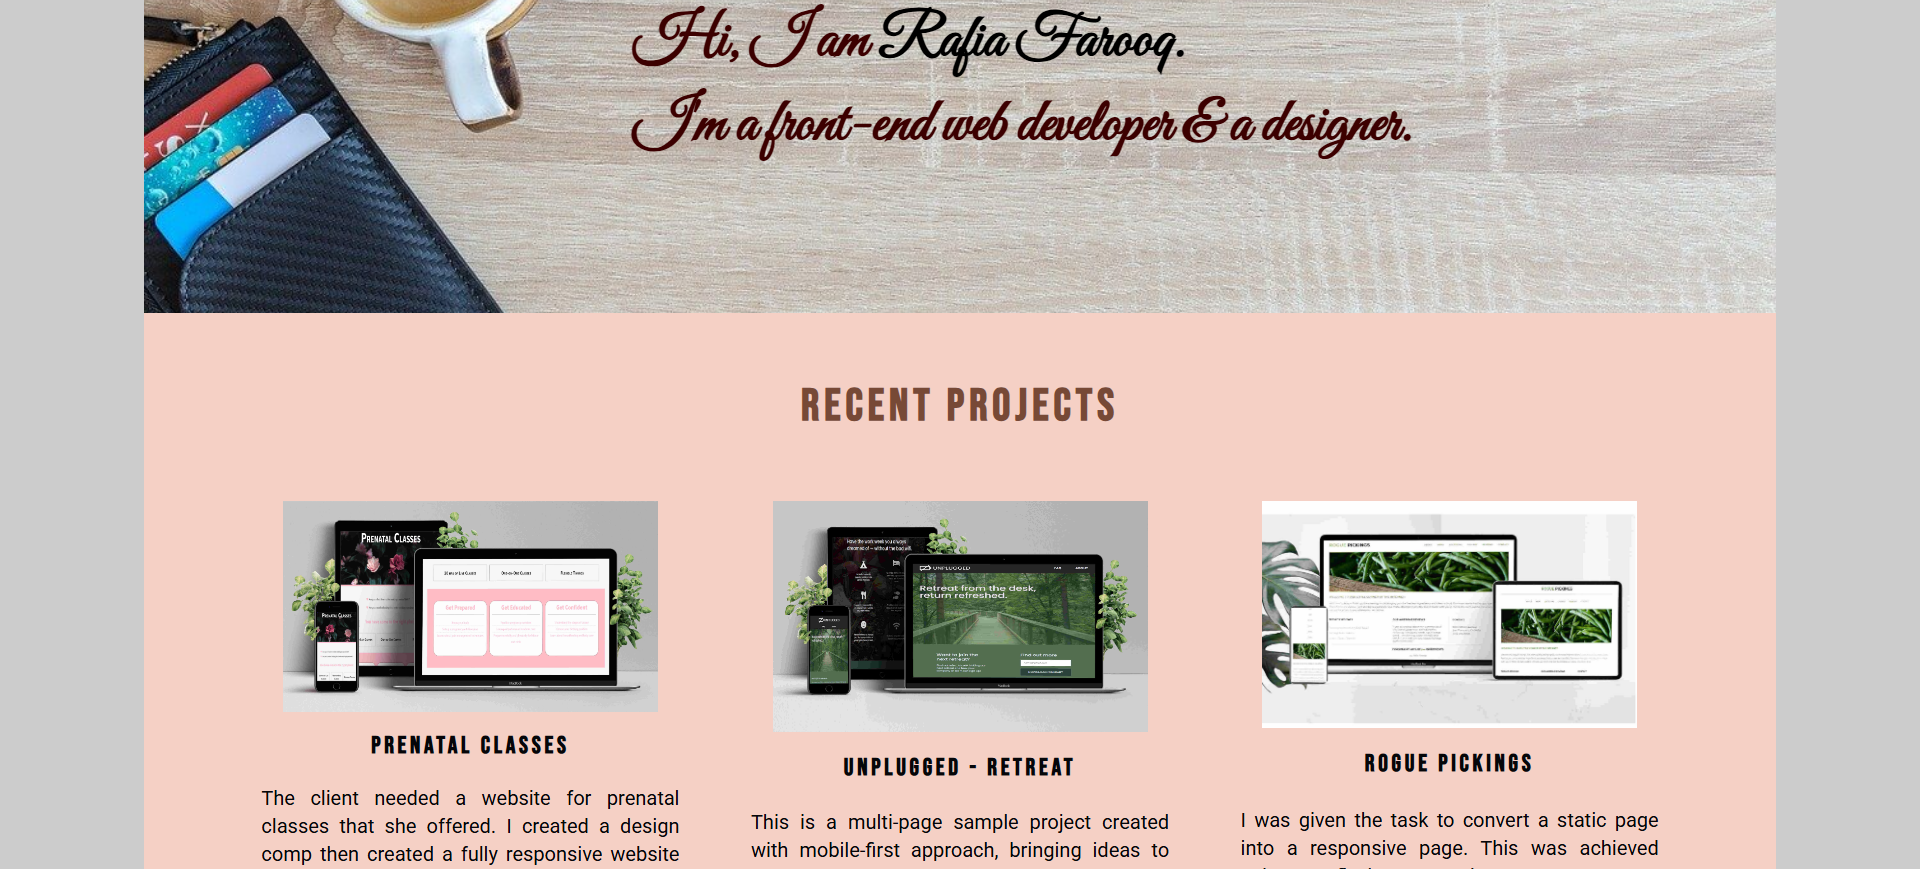
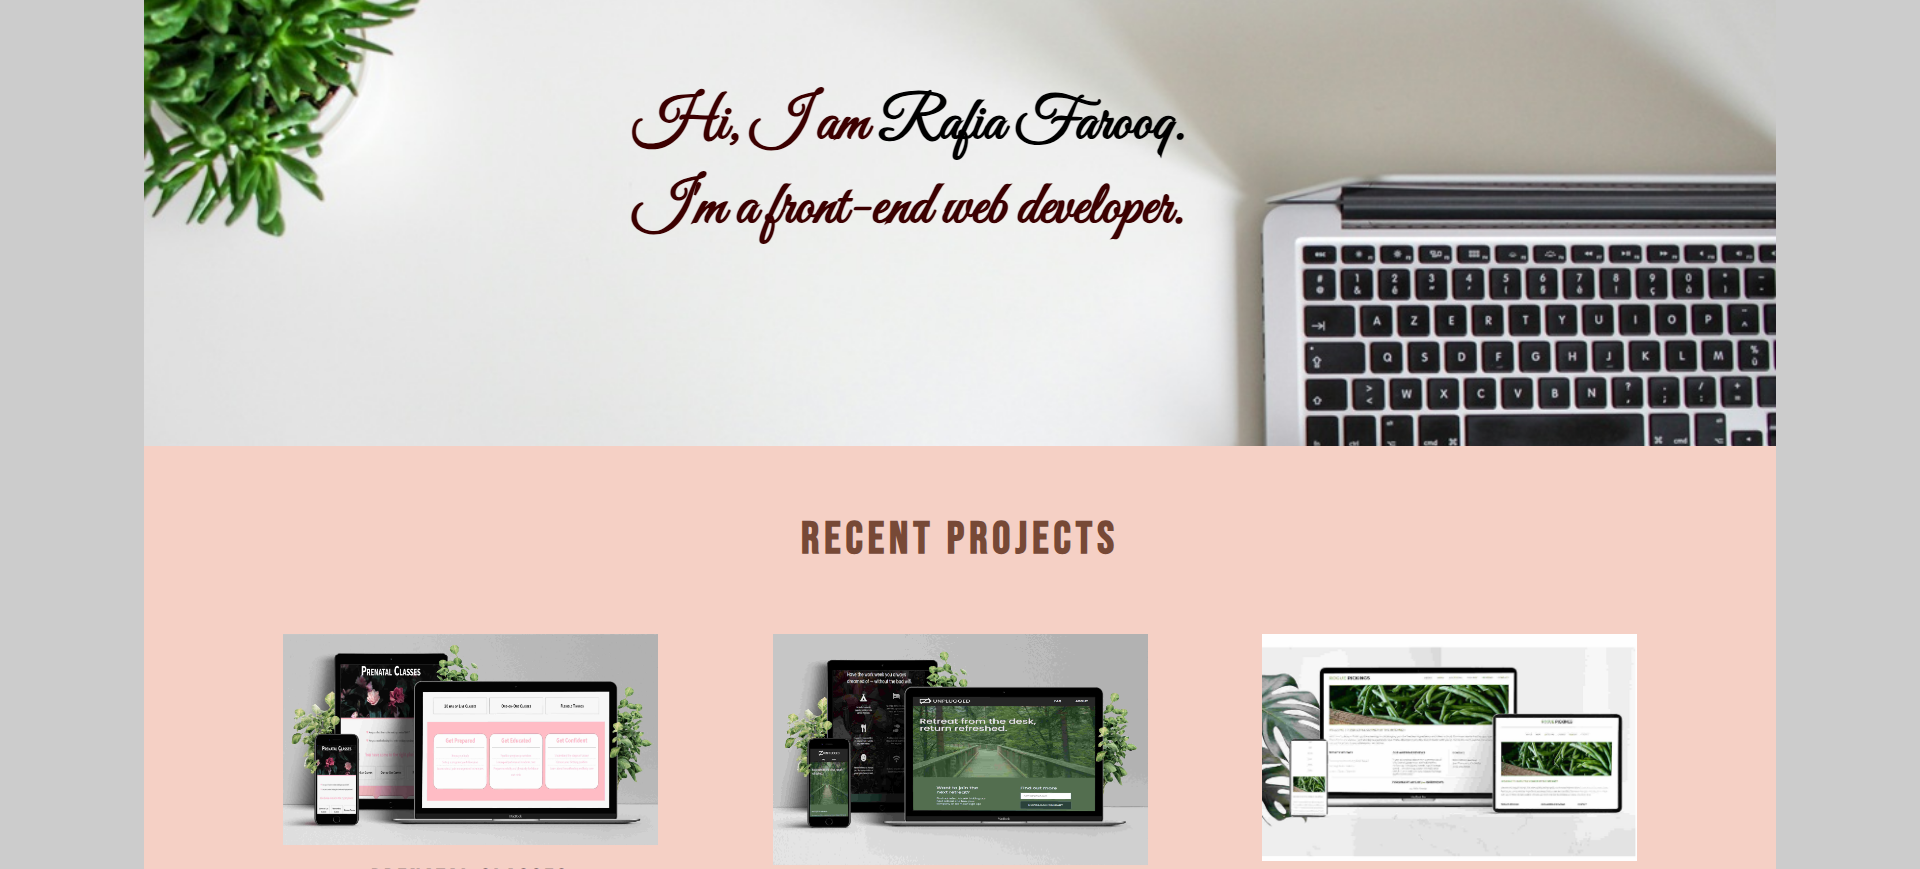
Added React, Angular and WP projects. Divided them into categories

diff --git a/index.html b/index.html
@@ -71,6 +71,10 @@
         <h2>Recent Projects</h2>
       </div>
 
+      <div class="projects-category">
+        <h5>HTM, CSS and Javascript</h5>
+      </div>
+
 
       <div class="content-wrapper">
 
@@ -131,23 +135,7 @@
           </figcaption>
         </article>
 
-
         <!--fifth project-->
-        <article>
-          <figure>
-             <img class="sample" src="img/steinbach-distributors-project.jpg" alt="steinbach distributors-webpage"/>
-          </figure>
-
-          <figcaption>
-            <h3>Wordpress Websites</h3>
-            <p>I also have experience creating custom designed websites using CMS.This site was
-              created for an Amazon product.
-            </p>
-            <!-- <button> <a href="https://steinbachdistributors.com/" target="_blank">View</a></button> -->
-          </figcaption>
-        </article>
-
-        <!--sixth project-->
         <article>
           <figure>
              <img class="sample" src="img/vision-board.jpg" alt="vision-board-webpage-project"/>
@@ -160,64 +148,161 @@
               <button> <a href="https://rafia-farooq.github.io/vision-board/" target="_blank">View</a></button>
           </figcaption>
         </article>
-
-
-        <!--seventh project-->
-        <article>
-          <figure>
-             <img class="sample" src="img/react-first-project.jpg" alt="react project"/>
-          </figure>
-
-          <figcaption>
-            <h3>Basic React Project.</h3>
-            <p>React components and functions, charts, increment buttons and theme change button. </p>
-              <button> <a href="https://sad-lewin-eb5fee.netlify.app" target="_blank">View</a></button>
-          </figcaption>
-        </article>
-
-
-        <!--eighth project-->
-        <article>
-          <figure>
-             <img class="sample" src="img/react-apis.jpg" alt="react-api-project"/>
-          </figure>
-
-          <figcaption>
-            <h3>React API Project.</h3>
-            <p>Used APIs to show weather, recent COVID results and data for countries </p>
-              <button> <a href="https://musing-golick-b5d0be.netlify.app" target="_blank">View</a></button>
-          </figcaption>
-        </article>
-
-        <!--ninth project-->
-        <article>
-          <figure>
-             <img class="sample" src="img/react-material-ui.JPG" alt="material UI project"/>
-          </figure>
-
-          <figcaption>
-            <h3>React with Material UI.</h3>
-            <p>Form created using Material UI with theme change icon, login/logout option. </p>
-              <button> <a href="https://serene-kirch-563cb2.netlify.app" target="_blank">View</a></button>
-          </figcaption>
-        </article>
-
-
-        <!--tenth project-->
-        <article>
-          <figure>
-            <img class="sample" src="img/wordpress-project-sample.png" alt="wordpress-project"/>
-          </figure>
-
-          <figcaption>
-            <h3>Sample Wordpress Site</h3>
-            <p>Custom theme site with child theme and a custom style sheet, designed from scaratch. With functions to create custom fields. </p>
-          </figcaption>
-        </article>
-
       </div>
-    </section>
-       <!--end of projects section-->
+       <!--end of HTML and CSS projects section-->
+
+      <div class="projects-category">
+        <h5>React &amp; Angular</h5>
+      </div>
+
+       <div class="content-wrapper">
+
+       <!--first project-->
+       <article>
+        <figure>
+           <img class="sample" src="img/Little Lemon Restaurant.png" alt="react project"/>
+        </figure>
+
+        <figcaption>
+          <h3>Little Lemon Restaurant</h3>
+          <p>An interactive site build with React, Tailwind CSS, React Router and Formik. It has a Reserve a Table page with form validation. </p>
+            <button> <a href="https://rafia-farooq.github.io/little-lemon/" target="_blank">View</a></button>
+        </figcaption>
+      </article>
+
+      <!-- second project -->
+      <article>
+        <figure>
+           <img class="sample" src="img/Home Listings.png" alt="angular project"/>
+        </figure>
+
+        <figcaption>
+          <h3>Home Listings </h3>
+          <p>A site built using Angular, listing available homes using API adn a search feature. Routing and Forms used on individual homes page. </p>
+            <button> <a href="https://rafia-farooq.github.io/home-listings/" target="_blank">View</a></button>
+        </figcaption>
+      </article>
+
+      <!-- third project -->
+      <article>
+        <figure>
+           <img class="sample" src="img/Home Listings.png" alt="angular project"/>
+        </figure>
+
+        <figcaption>
+          <h3>Tour of Heroes </h3>
+          <p>A site built using Angular, listing available homes using API adn a search feature. Routing and Forms used on individual homes page. </p>
+            <button> <a href="https://rafia-farooq.github.io/home-listings/" target="_blank">View</a></button>
+        </figcaption>
+      </article>
+
+       <!--fourth project-->
+       <article>
+         <figure>
+            <img class="sample" src="img/react-first-project.jpg" alt="react project"/>
+         </figure>
+
+         <figcaption>
+           <h3>Basic React Project.</h3>
+           <p>React components and functions, charts, increment buttons and theme change button. </p>
+             <button> <a href="https://sad-lewin-eb5fee.netlify.app" target="_blank">View</a></button>
+         </figcaption>
+       </article>
+
+
+       <!--fifth project-->
+       <article>
+         <figure>
+            <img class="sample" src="img/react-apis.jpg" alt="react-api-project"/>
+         </figure>
+
+         <figcaption>
+           <h3>React API Project.</h3>
+           <p>Used APIs to show weather, recent COVID results and data for countries </p>
+             <button> <a href="https://musing-golick-b5d0be.netlify.app" target="_blank">View</a></button>
+         </figcaption>
+       </article>
+
+       <!--sixth project-->
+       <article>
+         <figure>
+            <img class="sample" src="img/react-material-ui.JPG" alt="material UI project"/>
+         </figure>
+
+         <figcaption>
+           <h3>React with Material UI.</h3>
+           <p>Form created using Material UI with theme change icon, login/logout option. </p>
+             <button> <a href="https://serene-kirch-563cb2.netlify.app" target="_blank">View</a></button>
+         </figcaption>
+       </article>
+
+     </div>
+      <!--end of React and Angular projects section-->
+
+      <div class="projects-category">
+        <h5>WordPress</h5>
+      </div>
+
+       <div class="content-wrapper">
+
+       <!--first project-->
+       <article>
+         <figure>
+           <img class="sample" src="img/wordpress-project-sample.png" alt="wordpress-project"/>
+         </figure>
+
+         <figcaption>
+           <h3>WordPress site buil Locallys</h3>
+           <p>Custom theme site with child theme and a custom style sheet, designed from scaratch. With functions to create custom fields. </p>
+         </figcaption>
+       </article>
+
+       <!--second project-->
+       <article>
+        <figure>
+          <img class="sample" src="img/Gulf-CAN.png" alt="wordpress-project"/>
+        </figure>
+
+        <figcaption>
+          <h3>Gulf CAN </h3>
+          <p>Site built for a non-profit using Divi and translated into two languages. </p>
+          <button> <a href="https://gulf-can.com/" target="_blank">View</a></button>
+        </figcaption>
+      </article>
+
+
+      <!--third project-->
+      <article>
+        <figure>
+           <img class="sample" src="img/steinbach-distributors-project.jpg" alt="steinbach distributors-webpage"/>
+        </figure>
+
+        <figcaption>
+          <h3>Steinbach Distributors</h3>
+          <p>I also have experience creating custom designed websites using CMS.This site was
+            created for an Amazon product.
+          </p>
+        </figcaption>
+      </article>
+
+      <!--fourth project-->
+      <article>
+       <figure>
+         <img class="sample" src="img/blissluscious-1.JPG" alt="wordpress-project"/>
+       </figure>
+
+       <figcaption>
+         <h3>Bliss Luscious Plants</h3>
+         <p>WordPress site designed and created using Elementor page builder. This site was created for an Amazon product. </p>
+       </figcaption>
+     </article>
+
+     </div>
+     <!--end of wordpress projects section-->
+
+   </section>
+      <!--end of projects section-->
+
 
 
        <!--about section-->

diff --git a/css/main.css b/css/main.css
@@ -130,6 +130,13 @@ nav ul{
   align-items: stretch;
 }
 
+.projects-category{
+  display: flex;
+  justify-content: center;
+  align-items: center;
+  flex-flow: row wrap;
+}
+
 #about .content-wrapper {
   display: flex;
   justify-content: center;
@@ -237,7 +244,13 @@ h4 {
   margin: 10px 0;
 }
 
-button {  
+h5 {
+  font-size: 1.2em;
+  text-decoration: underline;
+  margin: 50px 0;
+}
+
+button {
   border: none;
   padding: 10px 20px;
   color: white;
@@ -326,6 +339,10 @@ i {
   padding-top: 150px;
   margin: 0 0 0 15px;
   width: 90%;  
+}
+
+#projects .content-wrapper {
+  margin-bottom: 40px;
 }
 
 #projects .content-wrapper article {
